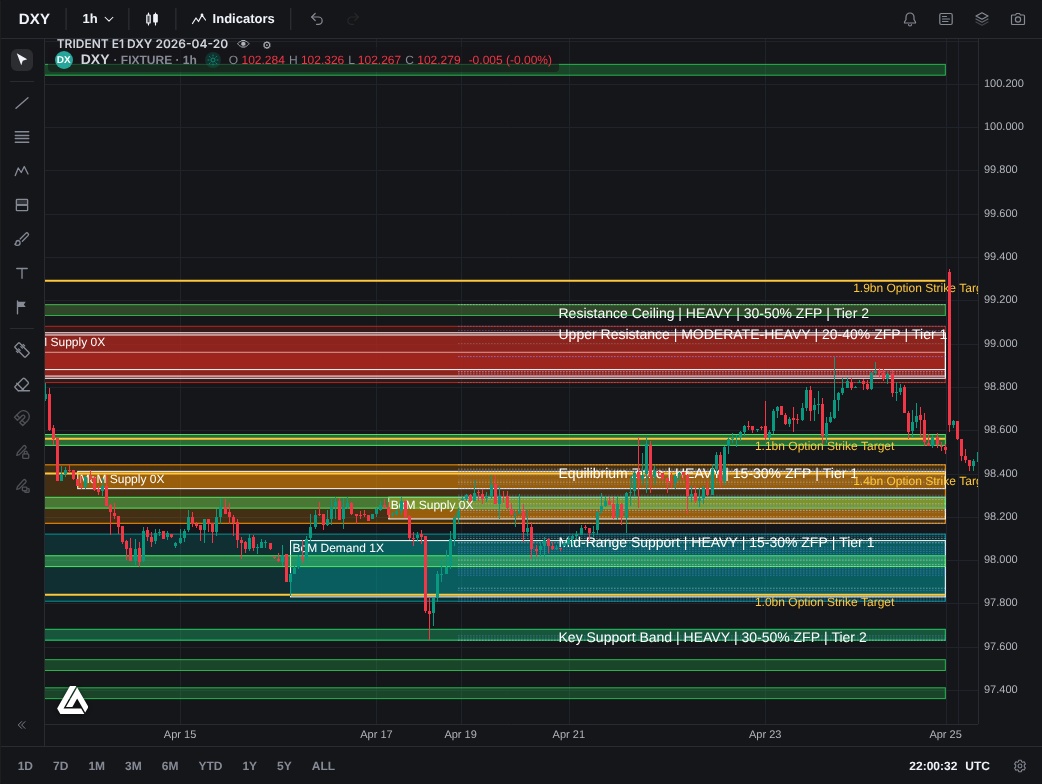
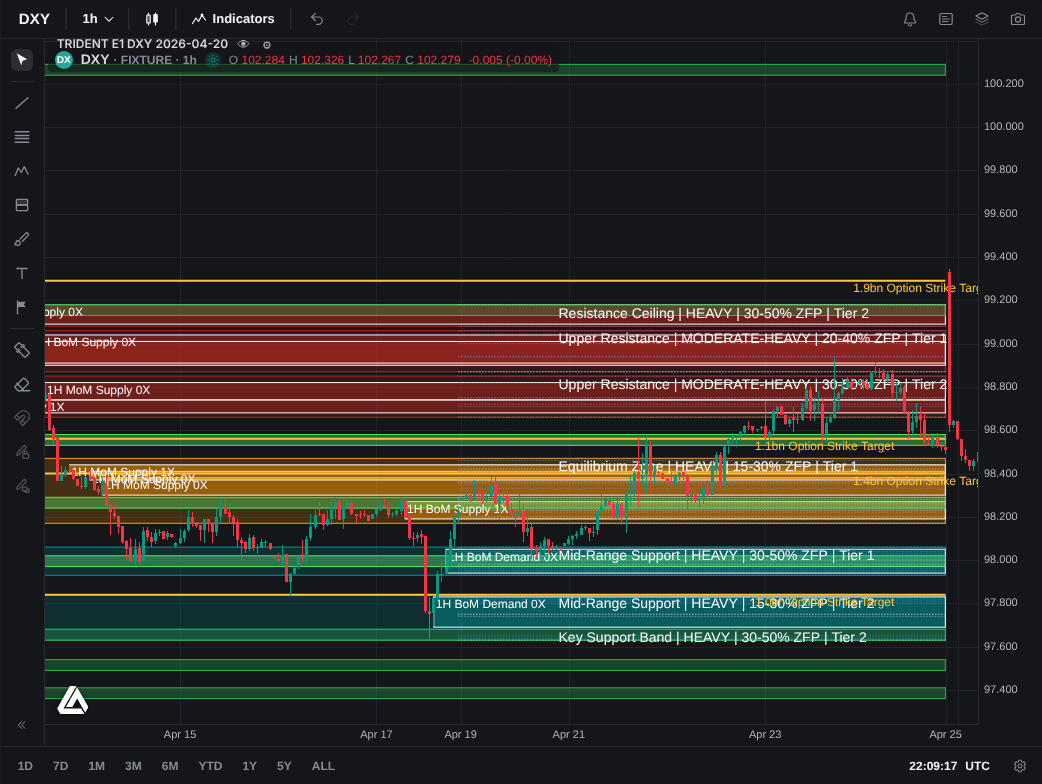
e1_tool: L-40 multi-timeframe - 4H overview, zones worked on 1H candles
Claude-Session: https://claude.ai/code/session_01Eis2qBbofvMAifYJzweUMT

Changed region(s): [[0.0307, 0.5816, 0.9213, 0.8265], [0.0307, 0.3673, 0.9213, 0.551]]

diff --git a/e1_tool/e1_zones.py b/e1_tool/e1_zones.py
@@ -6,24 +6,41 @@ import e1_data as D, e1_pillars as P, e1_synth as S
 
 
 def valid_sd(pair, monday, spot):
-    """Step 0f zones after the prompt's noise rejection (P452:741-745) + one-time use (operator notes) + A4 (closed through = broken)"""
-    b = D.closed(pair, '240', monday)
+    """Supply/demand candles. Operator ruling L-40: the 4H chart is the OVERVIEW; the zones are worked on the 1H chart.
+    4H: Step 0f over 60 days with the prompt's noise rejection (P452:741-745). 1H: the same candle rule on the prior two weeks (Step 0g window).
+    A 1H candle inside a kept 4H zone of its type carries that zone's BoM/MoM class (nested precision); a kept 4H zone with no 1H candle in it stays as its 4H candle."""
     b0 = D.boundary_ms(monday)
-    keep, drop = [], []
-    for z in P.step0f(pair, monday):
-        # A4: a demand candle the market now trades UNDER (or a supply candle it trades OVER) is no longer that zone
-        broken = (spot < z['bot']) if z['type'] == 'Demand' else (spot > z['top'])
-        why = ('wider than 0.40' if z['top'] - z['bot'] > P._u(pair, 40) else 'older than 3 weeks' if z['origin_time'] < b0 - 21 * 86400000
-               else 'price beyond it at the boundary (broken)' if broken else f"{z['mit']}X mitigated" if z['mit'] > 1 else None)
-        z['excluded'] = why
-        (drop if why else keep).append(z)
-    return keep, drop
+    def screen(zs, max_age_days):
+        keep, drop = [], []
+        for z in zs:
+            # A4: a demand candle the market now trades UNDER (or a supply candle it trades OVER) is no longer that zone
+            broken = (spot < z['bot']) if z['type'] == 'Demand' else (spot > z['top'])
+            why = ('wider than 0.40' if z['top'] - z['bot'] > P._u(pair, 40) else f'older than {max_age_days} days' if z['origin_time'] < b0 - max_age_days * 86400000
+                   else 'price beyond it at the boundary (broken)' if broken else f"{z['mit']}X mitigated" if z['mit'] > 1 else None)
+            z['excluded'] = why
+            (drop if why else keep).append(z)
+        return keep, drop
+    h4, h4_drop = screen(P.step0f(pair, monday, '240', 60), 21)
+    h1, h1_drop = screen(P.step0f(pair, monday, '60', 14), 14)
+    for z in h4:
+        z['tf'] = '4H'; z['h4bom'] = z['kind'] == 'BoM'
+    used = set()
+    for z in h1:
+        z['tf'] = '1H'
+        par = [p for p in h4 if p['type'] == z['type'] and z['bot'] <= p['top'] and z['top'] >= p['bot']]
+        z['h4bom'] = any(p['kind'] == 'BoM' for p in par)
+        if par:
+            z['kind'] = 'BoM' if z['h4bom'] else 'MoM'
+            z['parent'] = par[0]
+            used.update(id(p) for p in par)
+    keep = h1 + [p for p in h4 if id(p) not in used]
+    return keep, h4_drop + h1_drop, h4
 
 
 def build(pair, monday, expiries, K, spot):
     u = lambda pips: P._u(pair, pips)
     L, swings = S.collect(pair, monday, expiries, K)
-    sd, sd_drop = valid_sd(pair, monday, spot)
+    sd, sd_drop, h4 = valid_sd(pair, monday, spot)
     days = D.daily(pair, monday)
     # Step 0 / 0.45: ALL prior D1 swing extremes that passed the wick test (major, or minor per Step 0h) in the 90 daily bars,
     # plus every swing of the last 10 days (A2: the report lists each recent daily low / high as a sweep zone)
@@ -74,7 +91,7 @@ def build(pair, monday, expiries, K, spot):
                 best, bs = x, (tot, sc)
         walls = [x for x in inside if x['dim'] == 'opt' and x['tier'] <= 2]
         wall = min([w['tier'] for w in walls] + [9])
-        fresh_bom = [z for z in a['structs'] if z['kind'] == 'BoM' and z['mit'] <= 1]
+        fresh_bom = [z for z in a['structs'] if z.get('h4bom') and z['mit'] <= 1]      # Tier 1 = overlap with a 4H BoM 0X-1X (Step 9.7)
         pillars = len({x['pillar'] for x in band})
         ghost = bool(walls) and all(w.get('ghost') for w in walls)
         ztype = ('Post-Expiry Ghost' if ghost else 'Hard Wall' if wall == 1 and pillars >= 3 and bs[1]['bonus'] >= 2 else 'Standard Wall' if wall <= 2 and pillars >= 2
@@ -121,7 +138,7 @@ def build(pair, monday, expiries, K, spot):
     infill = gap_scan(pair, monday, L, shown, eq if shown else None)
     # sweep zones listed / drawn: every swing of the last 10 days (as the report lists them) + older ones still unswept
     lsz = [z for z in lsz if z['date'] >= days[-10]['date'] or not z['swept']]
-    return {'infill': infill, 'levels': L, 'zones': shown, 'all': zones, 'sd': sd, 'sd_drop': sd_drop, 'lsz': lsz, 'swings': swings, 'pp': pp, 'spot': spot, 'K': K}
+    return {'infill': infill, 'levels': L, 'zones': shown, 'all': zones, 'sd': sd, 'sd_drop': sd_drop, 'h4': h4, 'lsz': lsz, 'swings': swings, 'pp': pp, 'spot': spot, 'K': K}
 
 
 def gap_scan(pair, monday, L, shown, eq):
@@ -167,7 +184,7 @@ def show(r, pair):
     for z in r['zones']:
         print("  %-18s %s-%s %-14s %4.1f/14 ZFP %-6s %-13s %s | candle %s | sweep %s | walls %s | levels on it %d | top: %s" % (
             z['name'], g(z['bot']), g(z['top']), z['degree'], z['score'], z['zfp'], z['type'], z['tier'][:6],
-            [(s['kind'], s['type'], g(s['bot']), g(s['top']), D.ts(s['origin_time'])[5:16], f"{s['mit']}X") for s in z['structs']],
+            [(s['tf'], s['kind'], s['type'][:3], g(s['bot']), g(s['top']), D.ts(s['origin_time'])[5:16], f"{s['mit']}X") for s in z['structs']],
             [(g(s['bot']), g(s['top'])) for s in z['sweeps']], [g(w['p']) for w in z['walls']], len(z['levels']), z['best']['tag']))
 
 

diff --git a/e1_tool/e1_pillars.py b/e1_tool/e1_pillars.py
@@ -30,9 +30,9 @@ def pillar1(pair, monday):
 # ── PILLAR 5 STEP 0f: 4H supply/demand = the candle BEFORE the strong move, wick high to wick low (P452:637-745; rulings L-37, L-38)
 # A "strong momentum move" is read from the candles the way the operator's notes define a valid order block: the move leaves an
 # inefficiency, i.e. a gap between the candle before it and the candle after it. No minimum size (L-37).
-def step0f(pair, monday):
-    b = D.closed(pair, '240', monday)
-    b = [x for x in b if x['time'] >= D.boundary_ms(monday) - 60 * 86400000]         # last 60 calendar days (P452:641)
+def step0f(pair, monday, tf='240', days=60):
+    b = D.closed(pair, tf, monday)
+    b = [x for x in b if x['time'] >= D.boundary_ms(monday) - days * 86400000]         # 4H: last 60 calendar days (P452:641); 1H: prior 1-2 weeks (Step 0g)
     zones, i, n = [], 1, len(b)
     while i < n - 1:
         down = b[i + 1]['high'] < b[i - 1]['low']        # gap below the "before" candle -> bearish move -> supply

diff --git a/e1_tool/e1_pine.py b/e1_tool/e1_pine.py
@@ -34,7 +34,7 @@ def generate(pair, monday, r):
             o.append('    if show_candles')
             for s in z['structs']:
                 o.append(f"        box.new({s['origin_time']}, {g(s['top'])}, {tsR}, {g(s['bot'])}, bgcolor=color.new(color.rgb({c}), 55), border_color=color.white, border_width=1, border_style=line.style_dashed, xloc=xloc.bar_time)")
-                o.append(f"        label.new({s['origin_time']}, {g(s['top'])}, \"{s['kind']} {s['type']} {s['mit']}X\", xloc=xloc.bar_time, style=label.style_label_down, color=color.new(color.black, 30), textcolor=color.white, size=size.small)")
+                o.append(f"        label.new({s['origin_time']}, {g(s['top'])}, \"{s['tf']} {s['kind']} {s['type']} {s['mit']}X\", xloc=xloc.bar_time, style=label.style_label_down, color=color.new(color.black, 30), textcolor=color.white, size=size.small)")
         o.append('    if show_levels')
         seen = set()
         for x in z['levels']:

diff --git a/memory/04_OPERATOR_RULINGS_LIVE.md b/memory/04_OPERATOR_RULINGS_LIVE.md
@@ -108,3 +108,8 @@ Superseded today: R-12 (operator-driven turn by turn) -> now FULLY AUTONOMOUS. R
   Phase one: a single joined zone is acceptable as long as the levels (B) are clearly highlighted inside it and distinguishable from the candle part (A).
   Case 3 (levels cluster with no order block): DRAW BOTH - the pressure zone across the levels AND the sweep zone, colour-coded so each is identifiable. Do not choose one.
   Context he gave: the equilibrium zone is pierced during a breakout surge, then carries weight in the recovery / swing-scalp consolidation, or acts as a reinforcement point mid-surge. The liquidity zone normally sits inside it.
+
+## 2026-11-26 - operator on timeframes (BINDING)
+- L-40 "4 hour is just to get an overview for supply and demand zones. You should be working everything on the 1 hour chart and going one trading week at a time." / "Multi-timeframe analysis ... 4 hour is just the higher time frame that you do initial analysis on, but then you're working on the 1 hour time frame."
+  He also said: "I don't really understand what questions you have for me. It seems like everything is clear and you're just stopping short of actually finishing the goal." -> do NOT stop to ask; finish.
+  Implementation: e1_zones.valid_sd(): 4H Step 0f = overview (class BoM/MoM, Tier 1 when a 1H candle sits in a 4H BoM 0X-1X); zones are the 1H candles (same candle rule, prior 2 weeks); a 4H zone with no 1H candle in it stays as the 4H candle.
